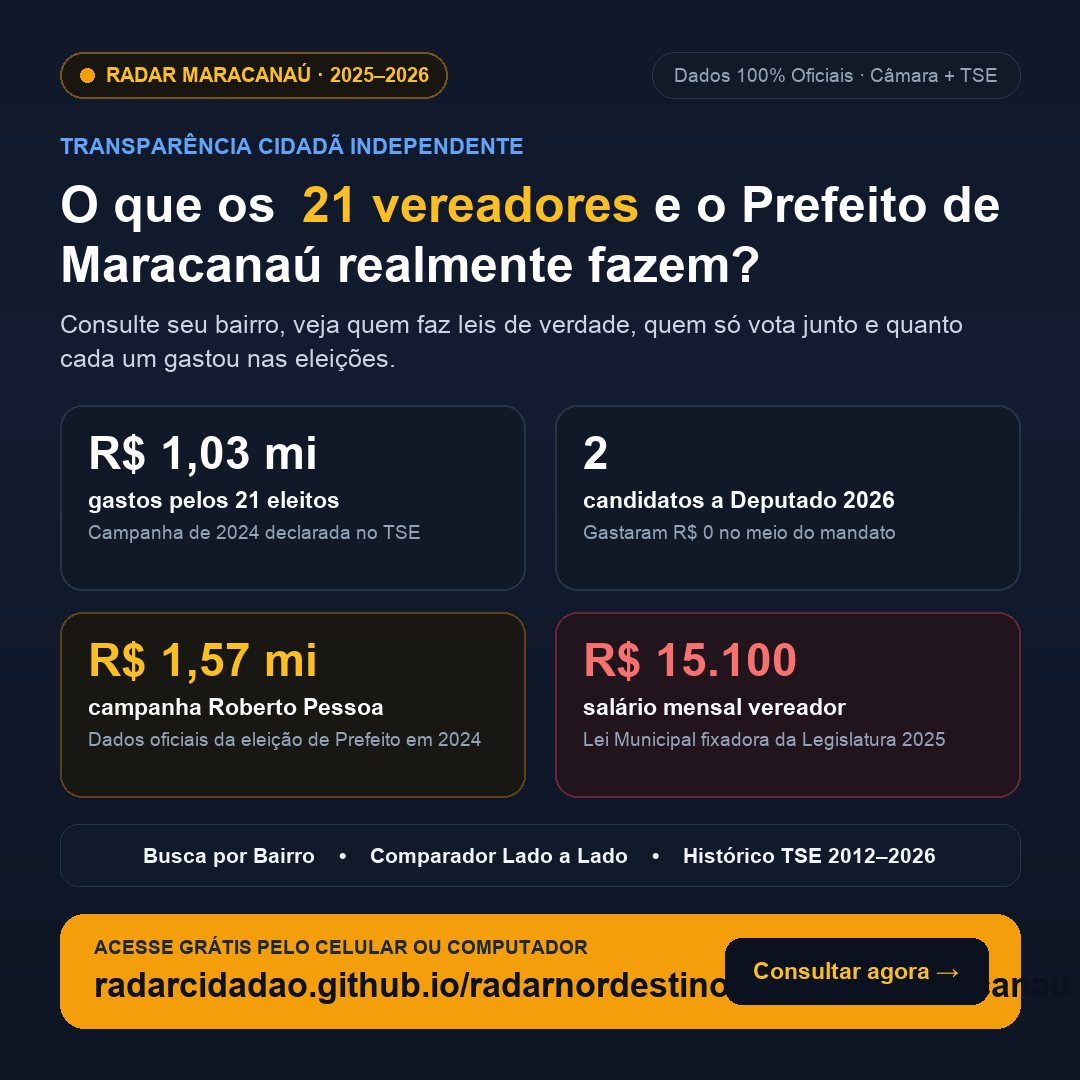
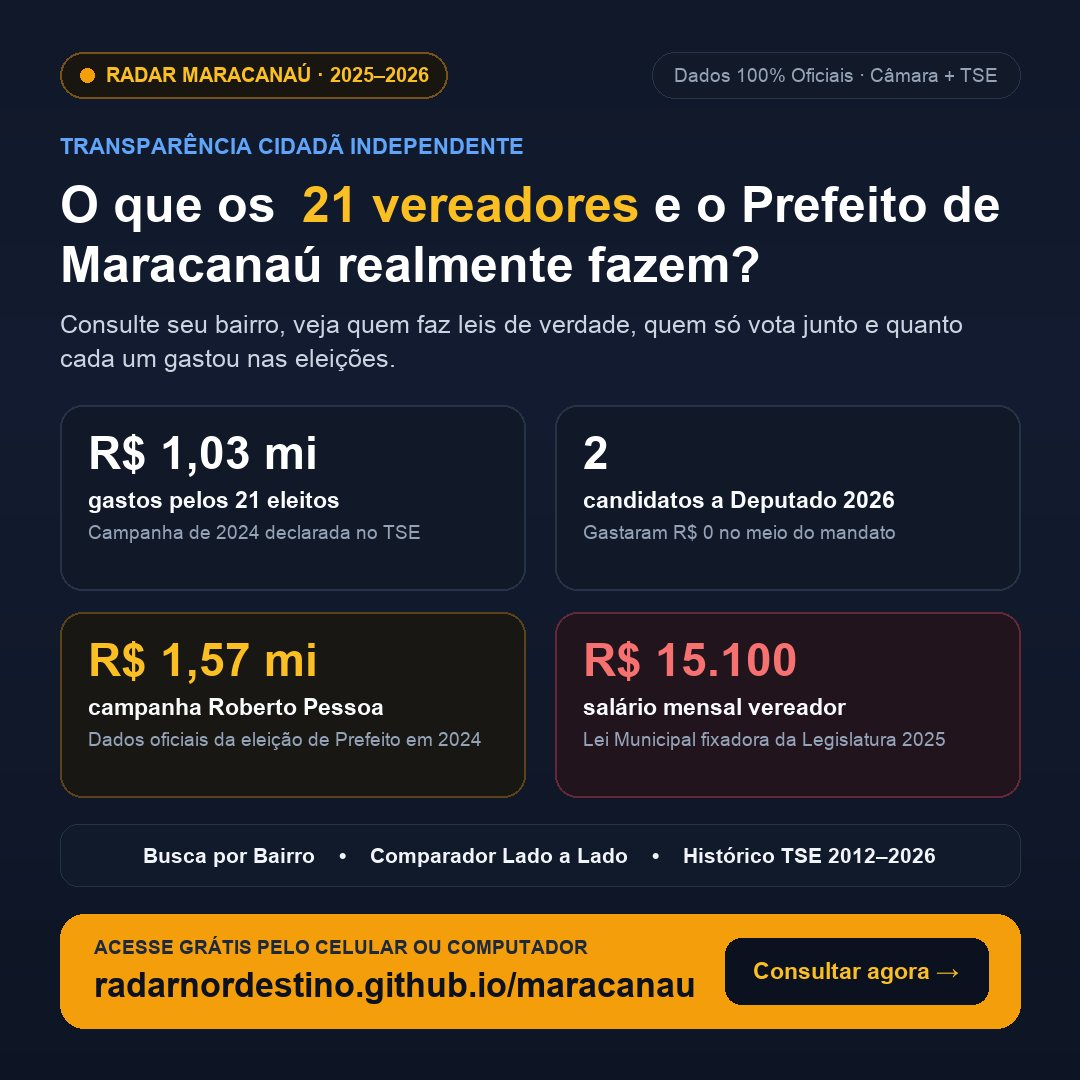
chore: definir URL base para https://radarnordestino.github.io

Changed region(s): [[0.1528, 0.8861, 0.6722, 0.9472], [0.9167, 0.8861, 0.9472, 0.9472]]

diff --git a/santoantoniodejesus/index.html b/santoantoniodejesus/index.html
@@ -6,14 +6,14 @@
 <title>Radar Santo Antônio de Jesus — O que os 14 vereadores e o Prefeito realmente fazem</title>
 <meta name="description" content="Consulte seu bairro em Santo Antônio de Jesus, veja quem faz leis de verdade, quem só vota junto e quanto cada vereador gastou nas eleições (dados oficiais Câmara + TSE).">
 <meta property="og:type" content="website">
-<meta property="og:url" content="https://radarcidadao.github.io/radarnordestino.github.io/santoantoniodejesus/">
+<meta property="og:url" content="https://radarnordestino.github.io/santoantoniodejesus/">
 <meta property="og:title" content="Radar Santo Antônio de Jesus — O que os 14 vereadores e o Prefeito fazem?">
 <meta property="og:description" content="Raio-X dos 14 vereadores e do Prefeito de Santo Antônio de Jesus: salários em tempo real, gastos de campanha (R$ 236,2 mil em 2024 no TSE) e canais oficiais de cobrança.">
-<meta property="og:image" content="https://radarcidadao.github.io/radarnordestino.github.io/santoantoniodejesus/card-whatsapp.jpg">
+<meta property="og:image" content="https://radarnordestino.github.io/santoantoniodejesus/card-whatsapp.jpg">
 <meta property="og:image:width" content="1080">
 <meta property="og:image:height" content="1080">
 <meta name="twitter:card" content="summary_large_image">
-<meta name="twitter:image" content="https://radarcidadao.github.io/radarnordestino.github.io/santoantoniodejesus/card-whatsapp.jpg">
+<meta name="twitter:image" content="https://radarnordestino.github.io/santoantoniodejesus/card-whatsapp.jpg">
 <link rel="icon" href="../favicon.ico" sizes="any">
 <link rel="icon" type="image/png" href="../favicon.png">
 <link rel="apple-touch-icon" href="../apple-touch-icon.png">
@@ -842,7 +842,7 @@ const repHTML=g=>`<button class="rp" type="button" data-g="${D.rep.indexOf(g)}">
   <span class="rr">${esc(g.r)}</span><span class="rb">${esc(g.b||CIDADE)}</span>
   <span class="rm"><span class="lab">${esc(THX[g.th]?THX[g.th][1]:'Melhoria')}</span><span>${g.a} ${g.a===1?'vereador pediu':'vereadores pediram'}</span><span>·</span><span>de ${mesAno(g.d0)} a ${mesAno(g.d1)}</span></span><span class="go" style="grid-column:1/-1;color:var(--red);font-weight:700;font-size:14px;margin-top:6px">Ver pedidos e cobrar →</span></button>`;
 const TEMA={luz:'iluminação',asf:'conserto de asfalto',tra:'melhoria no trânsito',agu:'conserto de água e esgoto',lim:'limpeza e poda',cal:'conserto de calçada',laz:'melhoria em praça e área de lazer',sau:'melhoria na saúde',edu:'melhoria em escola',seg:'segurança',bus:'melhoria no ônibus'};
-const SITE=/^https?:/.test(location.protocol)?location.origin+location.pathname:'https://radarcidadao.github.io/radarnordestino.github.io/santoantoniodejesus/';
+const SITE=/^https?:/.test(location.protocol)?location.origin+location.pathname:'https://radarnordestino.github.io/santoantoniodejesus/';
 function openRep(g){
   openSheet('b',THX[g.th]?THX[g.th][2]:'pin',g.r,`${THX[g.th]?THX[g.th][1]:'Melhoria'} · pedido ${g.n} vezes até agora${g.b?' · '+g.b:''}`);
   const cnt=new Map(); g.items.forEach(it=>it[6].forEach(a=>cnt.set(a,(cnt.get(a)||0)+1)));

diff --git a/cruzdasalmas/index.html b/cruzdasalmas/index.html
@@ -6,14 +6,14 @@
 <title>Radar Cruz das Almas — O que os 15 vereadores e o Prefeito realmente fazem</title>
 <meta name="description" content="Consulte seu bairro em Cruz das Almas, veja quem faz leis de verdade, quem só vota junto e quanto cada vereador gastou nas eleições (dados oficiais Câmara + TSE).">
 <meta property="og:type" content="website">
-<meta property="og:url" content="https://radarcidadao.github.io/radarnordestino.github.io/cruzdasalmas/">
+<meta property="og:url" content="https://radarnordestino.github.io/cruzdasalmas/">
 <meta property="og:title" content="Radar Cruz das Almas — O que os 15 vereadores e o Prefeito fazem?">
 <meta property="og:description" content="Raio-X dos 15 vereadores e do Prefeito de Cruz das Almas: salários em tempo real, gastos de campanha (R$ 411,3 mil em 2024 no TSE) e canais oficiais de cobrança.">
-<meta property="og:image" content="https://radarcidadao.github.io/radarnordestino.github.io/cruzdasalmas/card-whatsapp.jpg">
+<meta property="og:image" content="https://radarnordestino.github.io/cruzdasalmas/card-whatsapp.jpg">
 <meta property="og:image:width" content="1080">
 <meta property="og:image:height" content="1080">
 <meta name="twitter:card" content="summary_large_image">
-<meta name="twitter:image" content="https://radarcidadao.github.io/radarnordestino.github.io/cruzdasalmas/card-whatsapp.jpg">
+<meta name="twitter:image" content="https://radarnordestino.github.io/cruzdasalmas/card-whatsapp.jpg">
 <link rel="icon" href="../favicon.ico" sizes="any">
 <link rel="icon" type="image/png" href="../favicon.png">
 <link rel="apple-touch-icon" href="../apple-touch-icon.png">
@@ -842,7 +842,7 @@ const repHTML=g=>`<button class="rp" type="button" data-g="${D.rep.indexOf(g)}">
   <span class="rr">${esc(g.r)}</span><span class="rb">${esc(g.b||CIDADE)}</span>
   <span class="rm"><span class="lab">${esc(THX[g.th]?THX[g.th][1]:'Melhoria')}</span><span>${g.a} ${g.a===1?'vereador pediu':'vereadores pediram'}</span><span>·</span><span>de ${mesAno(g.d0)} a ${mesAno(g.d1)}</span></span><span class="go" style="grid-column:1/-1;color:var(--red);font-weight:700;font-size:14px;margin-top:6px">Ver pedidos e cobrar →</span></button>`;
 const TEMA={luz:'iluminação',asf:'conserto de asfalto',tra:'melhoria no trânsito',agu:'conserto de água e esgoto',lim:'limpeza e poda',cal:'conserto de calçada',laz:'melhoria em praça e área de lazer',sau:'melhoria na saúde',edu:'melhoria em escola',seg:'segurança',bus:'melhoria no ônibus'};
-const SITE=/^https?:/.test(location.protocol)?location.origin+location.pathname:'https://radarcidadao.github.io/radarnordestino.github.io/cruzdasalmas/';
+const SITE=/^https?:/.test(location.protocol)?location.origin+location.pathname:'https://radarnordestino.github.io/cruzdasalmas/';
 function openRep(g){
   openSheet('b',THX[g.th]?THX[g.th][2]:'pin',g.r,`${THX[g.th]?THX[g.th][1]:'Melhoria'} · pedido ${g.n} vezes até agora${g.b?' · '+g.b:''}`);
   const cnt=new Map(); g.items.forEach(it=>it[6].forEach(a=>cnt.set(a,(cnt.get(a)||0)+1)));

diff --git a/campinagrande/index.html b/campinagrande/index.html
@@ -6,14 +6,14 @@
 <title>Radar Campina Grande — O que os 23 vereadores e o Prefeito realmente fazem</title>
 <meta name="description" content="Consulte seu bairro em Campina Grande, veja quem faz leis de verdade, quem só vota junto e quanto cada vereador gastou nas eleições (dados oficiais Câmara + TSE).">
 <meta property="og:type" content="website">
-<meta property="og:url" content="https://radarcidadao.github.io/radarnordestino.github.io/campinagrande/">
+<meta property="og:url" content="https://radarnordestino.github.io/campinagrande/">
 <meta property="og:title" content="Radar Campina Grande — O que os 23 vereadores e o Prefeito fazem?">
 <meta property="og:description" content="6.016 ações em 30 bairros, gastos de campanha (R$ 1,94 mi em 2024 + R$ 2,37 mi dos 5 candidatos a deputado em 2026) e comparador lado a lado.">
-<meta property="og:image" content="https://radarcidadao.github.io/radarnordestino.github.io/campinagrande/card-whatsapp.jpg">
+<meta property="og:image" content="https://radarnordestino.github.io/campinagrande/card-whatsapp.jpg">
 <meta property="og:image:width" content="1080">
 <meta property="og:image:height" content="1080">
 <meta name="twitter:card" content="summary_large_image">
-<meta name="twitter:image" content="https://radarcidadao.github.io/radarnordestino.github.io/campinagrande/card-whatsapp.jpg">
+<meta name="twitter:image" content="https://radarnordestino.github.io/campinagrande/card-whatsapp.jpg">
 <link rel="icon" href="../favicon.ico" sizes="any">
 <link rel="icon" type="image/png" href="../favicon.png">
 <link rel="apple-touch-icon" href="../apple-touch-icon.png">
@@ -842,7 +842,7 @@ const repHTML=g=>`<button class="rp" type="button" data-g="${D.rep.indexOf(g)}">
   <span class="rr">${esc(g.r)}</span><span class="rb">${esc(g.b||CIDADE)}</span>
   <span class="rm"><span class="lab">${esc(THX[g.th]?THX[g.th][1]:'Melhoria')}</span><span>${g.a} ${g.a===1?'vereador pediu':'vereadores pediram'}</span><span>·</span><span>de ${mesAno(g.d0)} a ${mesAno(g.d1)}</span></span><span class="go" style="grid-column:1/-1;color:var(--red);font-weight:700;font-size:14px;margin-top:6px">Ver pedidos e cobrar →</span></button>`;
 const TEMA={luz:'iluminação',asf:'conserto de asfalto',tra:'melhoria no trânsito',agu:'conserto de água e esgoto',lim:'limpeza e poda',cal:'conserto de calçada',laz:'melhoria em praça e área de lazer',sau:'melhoria na saúde',edu:'melhoria em escola',seg:'segurança',bus:'melhoria no ônibus'};
-const SITE=/^https?:/.test(location.protocol)?location.origin+location.pathname:'https://radarcidadao.github.io/radarnordestino.github.io/campinagrande/';
+const SITE=/^https?:/.test(location.protocol)?location.origin+location.pathname:'https://radarnordestino.github.io/campinagrande/';
 function openRep(g){
   openSheet('b',THX[g.th]?THX[g.th][2]:'pin',g.r,`${THX[g.th]?THX[g.th][1]:'Melhoria'} · pedido ${g.n} vezes até agora${g.b?' · '+g.b:''}`);
   const cnt=new Map(); g.items.forEach(it=>it[6].forEach(a=>cnt.set(a,(cnt.get(a)||0)+1)));

diff --git a/maracanau/index.html b/maracanau/index.html
@@ -6,14 +6,14 @@
 <title>Radar Maracanaú — O que os 21 vereadores e o Prefeito realmente fazem</title>
 <meta name="description" content="Consulte seu bairro em Maracanaú, veja quem faz leis de verdade, quem só vota junto e quanto cada vereador gastou nas eleições (dados oficiais Câmara + TSE).">
 <meta property="og:type" content="website">
-<meta property="og:url" content="https://radarcidadao.github.io/radarnordestino.github.io/maracanau/">
+<meta property="og:url" content="https://radarnordestino.github.io/maracanau/">
 <meta property="og:title" content="Radar Maracanaú — O que os 21 vereadores e o Prefeito fazem?">
 <meta property="og:description" content="Raio-X dos 21 vereadores e do Prefeito de Maracanaú: salários em tempo real, gastos de campanha (R$ 1,03 mi em 2024 no TSE) e canais oficiais de cobrança.">
-<meta property="og:image" content="https://radarcidadao.github.io/radarnordestino.github.io/maracanau/card-whatsapp.jpg">
+<meta property="og:image" content="https://radarnordestino.github.io/maracanau/card-whatsapp.jpg">
 <meta property="og:image:width" content="1080">
 <meta property="og:image:height" content="1080">
 <meta name="twitter:card" content="summary_large_image">
-<meta name="twitter:image" content="https://radarcidadao.github.io/radarnordestino.github.io/maracanau/card-whatsapp.jpg">
+<meta name="twitter:image" content="https://radarnordestino.github.io/maracanau/card-whatsapp.jpg">
 <link rel="icon" href="../favicon.ico" sizes="any">
 <link rel="icon" type="image/png" href="../favicon.png">
 <link rel="apple-touch-icon" href="../apple-touch-icon.png">
@@ -842,7 +842,7 @@ const repHTML=g=>`<button class="rp" type="button" data-g="${D.rep.indexOf(g)}">
   <span class="rr">${esc(g.r)}</span><span class="rb">${esc(g.b||CIDADE)}</span>
   <span class="rm"><span class="lab">${esc(THX[g.th]?THX[g.th][1]:'Melhoria')}</span><span>${g.a} ${g.a===1?'vereador pediu':'vereadores pediram'}</span><span>·</span><span>de ${mesAno(g.d0)} a ${mesAno(g.d1)}</span></span><span class="go" style="grid-column:1/-1;color:var(--red);font-weight:700;font-size:14px;margin-top:6px">Ver pedidos e cobrar →</span></button>`;
 const TEMA={luz:'iluminação',asf:'conserto de asfalto',tra:'melhoria no trânsito',agu:'conserto de água e esgoto',lim:'limpeza e poda',cal:'conserto de calçada',laz:'melhoria em praça e área de lazer',sau:'melhoria na saúde',edu:'melhoria em escola',seg:'segurança',bus:'melhoria no ônibus'};
-const SITE=/^https?:/.test(location.protocol)?location.origin+location.pathname:'https://radarcidadao.github.io/radarnordestino.github.io/maracanau/';
+const SITE=/^https?:/.test(location.protocol)?location.origin+location.pathname:'https://radarnordestino.github.io/maracanau/';
 function openRep(g){
   openSheet('b',THX[g.th]?THX[g.th][2]:'pin',g.r,`${THX[g.th]?THX[g.th][1]:'Melhoria'} · pedido ${g.n} vezes até agora${g.b?' · '+g.b:''}`);
   const cnt=new Map(); g.items.forEach(it=>it[6].forEach(a=>cnt.set(a,(cnt.get(a)||0)+1)));

diff --git a/petrolina/index.html b/petrolina/index.html
@@ -6,14 +6,14 @@
 <title>Radar Petrolina — O que os 23 vereadores e o Prefeito realmente fazem</title>
 <meta name="description" content="Consulte seu bairro em Petrolina, veja quem faz leis de verdade, quem só vota junto e quanto cada vereador gastou nas eleições (dados oficiais Câmara + TSE).">
 <meta property="og:type" content="website">
-<meta property="og:url" content="https://radarcidadao.github.io/radarnordestino.github.io/petrolina/">
+<meta property="og:url" content="https://radarnordestino.github.io/petrolina/">
 <meta property="og:title" content="Radar Petrolina — O que os 23 vereadores e o Prefeito fazem?">
 <meta property="og:description" content="Raio-X dos 23 vereadores e do Prefeito de Petrolina: salários em tempo real, gastos de campanha (R$ 772,1 mil em 2024 no TSE) e canais oficiais de cobrança.">
-<meta property="og:image" content="https://radarcidadao.github.io/radarnordestino.github.io/petrolina/card-whatsapp.jpg">
+<meta property="og:image" content="https://radarnordestino.github.io/petrolina/card-whatsapp.jpg">
 <meta property="og:image:width" content="1080">
 <meta property="og:image:height" content="1080">
 <meta name="twitter:card" content="summary_large_image">
-<meta name="twitter:image" content="https://radarcidadao.github.io/radarnordestino.github.io/petrolina/card-whatsapp.jpg">
+<meta name="twitter:image" content="https://radarnordestino.github.io/petrolina/card-whatsapp.jpg">
 <link rel="icon" href="../favicon.ico" sizes="any">
 <link rel="icon" type="image/png" href="../favicon.png">
 <link rel="apple-touch-icon" href="../apple-touch-icon.png">
@@ -842,7 +842,7 @@ const repHTML=g=>`<button class="rp" type="button" data-g="${D.rep.indexOf(g)}">
   <span class="rr">${esc(g.r)}</span><span class="rb">${esc(g.b||CIDADE)}</span>
   <span class="rm"><span class="lab">${esc(THX[g.th]?THX[g.th][1]:'Melhoria')}</span><span>${g.a} ${g.a===1?'vereador pediu':'vereadores pediram'}</span><span>·</span><span>de ${mesAno(g.d0)} a ${mesAno(g.d1)}</span></span><span class="go" style="grid-column:1/-1;color:var(--red);font-weight:700;font-size:14px;margin-top:6px">Ver pedidos e cobrar →</span></button>`;
 const TEMA={luz:'iluminação',asf:'conserto de asfalto',tra:'melhoria no trânsito',agu:'conserto de água e esgoto',lim:'limpeza e poda',cal:'conserto de calçada',laz:'melhoria em praça e área de lazer',sau:'melhoria na saúde',edu:'melhoria em escola',seg:'segurança',bus:'melhoria no ônibus'};
-const SITE=/^https?:/.test(location.protocol)?location.origin+location.pathname:'https://radarcidadao.github.io/radarnordestino.github.io/petrolina/';
+const SITE=/^https?:/.test(location.protocol)?location.origin+location.pathname:'https://radarnordestino.github.io/petrolina/';
 function openRep(g){
   openSheet('b',THX[g.th]?THX[g.th][2]:'pin',g.r,`${THX[g.th]?THX[g.th][1]:'Melhoria'} · pedido ${g.n} vezes até agora${g.b?' · '+g.b:''}`);
   const cnt=new Map(); g.items.forEach(it=>it[6].forEach(a=>cnt.set(a,(cnt.get(a)||0)+1)));

diff --git a/salvador/index.html b/salvador/index.html
@@ -6,14 +6,14 @@
 <title>Radar Salvador — O que os 43 vereadores e o Prefeito realmente fazem</title>
 <meta name="description" content="Consulte seu bairro em Salvador, veja quem faz leis de verdade, quem só vota junto e quanto cada vereador gastou nas eleições (dados oficiais Câmara + TSE).">
 <meta property="og:type" content="website">
-<meta property="og:url" content="https://radarcidadao.github.io/radarnordestino.github.io/salvador/">
+<meta property="og:url" content="https://radarnordestino.github.io/salvador/">
 <meta property="og:title" content="Radar Salvador — O que os 43 vereadores e o Prefeito fazem?">
 <meta property="og:description" content="Raio-X dos 43 vereadores e do Prefeito de Salvador: salários em tempo real, gastos de campanha (R$ 13,67 mi em 2024 no TSE) e canais oficiais de cobrança.">
-<meta property="og:image" content="https://radarcidadao.github.io/radarnordestino.github.io/salvador/card-whatsapp.jpg">
+<meta property="og:image" content="https://radarnordestino.github.io/salvador/card-whatsapp.jpg">
 <meta property="og:image:width" content="1080">
 <meta property="og:image:height" content="1080">
 <meta name="twitter:card" content="summary_large_image">
-<meta name="twitter:image" content="https://radarcidadao.github.io/radarnordestino.github.io/salvador/card-whatsapp.jpg">
+<meta name="twitter:image" content="https://radarnordestino.github.io/salvador/card-whatsapp.jpg">
 <link rel="icon" href="../favicon.ico" sizes="any">
 <link rel="icon" type="image/png" href="../favicon.png">
 <link rel="apple-touch-icon" href="../apple-touch-icon.png">
@@ -842,7 +842,7 @@ const repHTML=g=>`<button class="rp" type="button" data-g="${D.rep.indexOf(g)}">
   <span class="rr">${esc(g.r)}</span><span class="rb">${esc(g.b||CIDADE)}</span>
   <span class="rm"><span class="lab">${esc(THX[g.th]?THX[g.th][1]:'Melhoria')}</span><span>${g.a} ${g.a===1?'vereador pediu':'vereadores pediram'}</span><span>·</span><span>de ${mesAno(g.d0)} a ${mesAno(g.d1)}</span></span><span class="go" style="grid-column:1/-1;color:var(--red);font-weight:700;font-size:14px;margin-top:6px">Ver pedidos e cobrar →</span></button>`;
 const TEMA={luz:'iluminação',asf:'conserto de asfalto',tra:'melhoria no trânsito',agu:'conserto de água e esgoto',lim:'limpeza e poda',cal:'conserto de calçada',laz:'melhoria em praça e área de lazer',sau:'melhoria na saúde',edu:'melhoria em escola',seg:'segurança',bus:'melhoria no ônibus'};
-const SITE=/^https?:/.test(location.protocol)?location.origin+location.pathname:'https://radarcidadao.github.io/radarnordestino.github.io/salvador/';
+const SITE=/^https?:/.test(location.protocol)?location.origin+location.pathname:'https://radarnordestino.github.io/salvador/';
 function openRep(g){
   openSheet('b',THX[g.th]?THX[g.th][2]:'pin',g.r,`${THX[g.th]?THX[g.th][1]:'Melhoria'} · pedido ${g.n} vezes até agora${g.b?' · '+g.b:''}`);
   const cnt=new Map(); g.items.forEach(it=>it[6].forEach(a=>cnt.set(a,(cnt.get(a)||0)+1)));

diff --git a/saoluis/index.html b/saoluis/index.html
@@ -6,14 +6,14 @@
 <title>Radar São Luís — O que os 31 vereadores e o Prefeito realmente fazem</title>
 <meta name="description" content="Consulte seu bairro em São Luís, veja quem faz leis de verdade, quem só vota junto e quanto cada vereador gastou nas eleições (dados oficiais Câmara + TSE).">
 <meta property="og:type" content="website">
-<meta property="og:url" content="https://radarcidadao.github.io/radarnordestino.github.io/saoluis/">
+<meta property="og:url" content="https://radarnordestino.github.io/saoluis/">
 <meta property="og:title" content="Radar São Luís — O que os 31 vereadores e o Prefeito fazem?">
 <meta property="og:description" content="Raio-X dos 31 vereadores e do Prefeito de São Luís: salários em tempo real, gastos de campanha (R$ 7,60 mi em 2024 no TSE) e canais oficiais de cobrança.">
-<meta property="og:image" content="https://radarcidadao.github.io/radarnordestino.github.io/saoluis/card-whatsapp.jpg">
+<meta property="og:image" content="https://radarnordestino.github.io/saoluis/card-whatsapp.jpg">
 <meta property="og:image:width" content="1080">
 <meta property="og:image:height" content="1080">
 <meta name="twitter:card" content="summary_large_image">
-<meta name="twitter:image" content="https://radarcidadao.github.io/radarnordestino.github.io/saoluis/card-whatsapp.jpg">
+<meta name="twitter:image" content="https://radarnordestino.github.io/saoluis/card-whatsapp.jpg">
 <link rel="icon" href="../favicon.ico" sizes="any">
 <link rel="icon" type="image/png" href="../favicon.png">
 <link rel="apple-touch-icon" href="../apple-touch-icon.png">
@@ -842,7 +842,7 @@ const repHTML=g=>`<button class="rp" type="button" data-g="${D.rep.indexOf(g)}">
   <span class="rr">${esc(g.r)}</span><span class="rb">${esc(g.b||CIDADE)}</span>
   <span class="rm"><span class="lab">${esc(THX[g.th]?THX[g.th][1]:'Melhoria')}</span><span>${g.a} ${g.a===1?'vereador pediu':'vereadores pediram'}</span><span>·</span><span>de ${mesAno(g.d0)} a ${mesAno(g.d1)}</span></span><span class="go" style="grid-column:1/-1;color:var(--red);font-weight:700;font-size:14px;margin-top:6px">Ver pedidos e cobrar →</span></button>`;
 const TEMA={luz:'iluminação',asf:'conserto de asfalto',tra:'melhoria no trânsito',agu:'conserto de água e esgoto',lim:'limpeza e poda',cal:'conserto de calçada',laz:'melhoria em praça e área de lazer',sau:'melhoria na saúde',edu:'melhoria em escola',seg:'segurança',bus:'melhoria no ônibus'};
-const SITE=/^https?:/.test(location.protocol)?location.origin+location.pathname:'https://radarcidadao.github.io/radarnordestino.github.io/saoluis/';
+const SITE=/^https?:/.test(location.protocol)?location.origin+location.pathname:'https://radarnordestino.github.io/saoluis/';
 function openRep(g){
   openSheet('b',THX[g.th]?THX[g.th][2]:'pin',g.r,`${THX[g.th]?THX[g.th][1]:'Melhoria'} · pedido ${g.n} vezes até agora${g.b?' · '+g.b:''}`);
   const cnt=new Map(); g.items.forEach(it=>it[6].forEach(a=>cnt.set(a,(cnt.get(a)||0)+1)));

diff --git a/mossoro/index.html b/mossoro/index.html
@@ -6,14 +6,14 @@
 <title>Radar Mossoró — O que os 21 vereadores e o Prefeito realmente fazem</title>
 <meta name="description" content="Consulte seu bairro em Mossoró, veja quem faz leis de verdade, quem só vota junto e quanto cada vereador gastou nas eleições (dados oficiais Câmara + TSE).">
 <meta property="og:type" content="website">
-<meta property="og:url" content="https://radarcidadao.github.io/radarnordestino.github.io/mossoro/">
+<meta property="og:url" content="https://radarnordestino.github.io/mossoro/">
 <meta property="og:title" content="Radar Mossoró — O que os 21 vereadores e o Prefeito fazem?">
 <meta property="og:description" content="Raio-X dos 21 vereadores e do Prefeito de Mossoró: salários em tempo real, gastos de campanha (R$ 1,17 mi em 2024 no TSE) e canais oficiais de cobrança.">
-<meta property="og:image" content="https://radarcidadao.github.io/radarnordestino.github.io/mossoro/card-whatsapp.jpg">
+<meta property="og:image" content="https://radarnordestino.github.io/mossoro/card-whatsapp.jpg">
 <meta property="og:image:width" content="1080">
 <meta property="og:image:height" content="1080">
 <meta name="twitter:card" content="summary_large_image">
-<meta name="twitter:image" content="https://radarcidadao.github.io/radarnordestino.github.io/mossoro/card-whatsapp.jpg">
+<meta name="twitter:image" content="https://radarnordestino.github.io/mossoro/card-whatsapp.jpg">
 <link rel="icon" href="../favicon.ico" sizes="any">
 <link rel="icon" type="image/png" href="../favicon.png">
 <link rel="apple-touch-icon" href="../apple-touch-icon.png">
@@ -842,7 +842,7 @@ const repHTML=g=>`<button class="rp" type="button" data-g="${D.rep.indexOf(g)}">
   <span class="rr">${esc(g.r)}</span><span class="rb">${esc(g.b||CIDADE)}</span>
   <span class="rm"><span class="lab">${esc(THX[g.th]?THX[g.th][1]:'Melhoria')}</span><span>${g.a} ${g.a===1?'vereador pediu':'vereadores pediram'}</span><span>·</span><span>de ${mesAno(g.d0)} a ${mesAno(g.d1)}</span></span><span class="go" style="grid-column:1/-1;color:var(--red);font-weight:700;font-size:14px;margin-top:6px">Ver pedidos e cobrar →</span></button>`;
 const TEMA={luz:'iluminação',asf:'conserto de asfalto',tra:'melhoria no trânsito',agu:'conserto de água e esgoto',lim:'limpeza e poda',cal:'conserto de calçada',laz:'melhoria em praça e área de lazer',sau:'melhoria na saúde',edu:'melhoria em escola',seg:'segurança',bus:'melhoria no ônibus'};
-const SITE=/^https?:/.test(location.protocol)?location.origin+location.pathname:'https://radarcidadao.github.io/radarnordestino.github.io/mossoro/';
+const SITE=/^https?:/.test(location.protocol)?location.origin+location.pathname:'https://radarnordestino.github.io/mossoro/';
 function openRep(g){
   openSheet('b',THX[g.th]?THX[g.th][2]:'pin',g.r,`${THX[g.th]?THX[g.th][1]:'Melhoria'} · pedido ${g.n} vezes até agora${g.b?' · '+g.b:''}`);
   const cnt=new Map(); g.items.forEach(it=>it[6].forEach(a=>cnt.set(a,(cnt.get(a)||0)+1)));

diff --git a/aracaju/index.html b/aracaju/index.html
@@ -6,14 +6,14 @@
 <title>Radar Aracaju — O que os 26 vereadores e o Prefeito realmente fazem</title>
 <meta name="description" content="Consulte seu bairro em Aracaju, veja quem faz leis de verdade, quem só vota junto e quanto cada vereador gastou nas eleições (dados oficiais Câmara + TSE).">
 <meta property="og:type" content="website">
-<meta property="og:url" content="https://radarcidadao.github.io/radarnordestino.github.io/aracaju/">
+<meta property="og:url" content="https://radarnordestino.github.io/aracaju/">
 <meta property="og:title" content="Radar Aracaju — O que os 26 vereadores e o Prefeito fazem?">
 <meta property="og:description" content="Raio-X dos 26 vereadores e do Prefeito de Aracaju: salários em tempo real, gastos de campanha (R$ 4,56 mi em 2024 no TSE) e canais oficiais de cobrança.">
-<meta property="og:image" content="https://radarcidadao.github.io/radarnordestino.github.io/aracaju/card-whatsapp.jpg">
+<meta property="og:image" content="https://radarnordestino.github.io/aracaju/card-whatsapp.jpg">
 <meta property="og:image:width" content="1080">
 <meta property="og:image:height" content="1080">
 <meta name="twitter:card" content="summary_large_image">
-<meta name="twitter:image" content="https://radarcidadao.github.io/radarnordestino.github.io/aracaju/card-whatsapp.jpg">
+<meta name="twitter:image" content="https://radarnordestino.github.io/aracaju/card-whatsapp.jpg">
 <link rel="icon" href="../favicon.ico" sizes="any">
 <link rel="icon" type="image/png" href="../favicon.png">
 <link rel="apple-touch-icon" href="../apple-touch-icon.png">
@@ -842,7 +842,7 @@ const repHTML=g=>`<button class="rp" type="button" data-g="${D.rep.indexOf(g)}">
   <span class="rr">${esc(g.r)}</span><span class="rb">${esc(g.b||CIDADE)}</span>
   <span class="rm"><span class="lab">${esc(THX[g.th]?THX[g.th][1]:'Melhoria')}</span><span>${g.a} ${g.a===1?'vereador pediu':'vereadores pediram'}</span><span>·</span><span>de ${mesAno(g.d0)} a ${mesAno(g.d1)}</span></span><span class="go" style="grid-column:1/-1;color:var(--red);font-weight:700;font-size:14px;margin-top:6px">Ver pedidos e cobrar →</span></button>`;
 const TEMA={luz:'iluminação',asf:'conserto de asfalto',tra:'melhoria no trânsito',agu:'conserto de água e esgoto',lim:'limpeza e poda',cal:'conserto de calçada',laz:'melhoria em praça e área de lazer',sau:'melhoria na saúde',edu:'melhoria em escola',seg:'segurança',bus:'melhoria no ônibus'};
-const SITE=/^https?:/.test(location.protocol)?location.origin+location.pathname:'https://radarcidadao.github.io/radarnordestino.github.io/aracaju/';
+const SITE=/^https?:/.test(location.protocol)?location.origin+location.pathname:'https://radarnordestino.github.io/aracaju/';
 function openRep(g){
   openSheet('b',THX[g.th]?THX[g.th][2]:'pin',g.r,`${THX[g.th]?THX[g.th][1]:'Melhoria'} · pedido ${g.n} vezes até agora${g.b?' · '+g.b:''}`);
   const cnt=new Map(); g.items.forEach(it=>it[6].forEach(a=>cnt.set(a,(cnt.get(a)||0)+1)));

diff --git a/maceio/index.html b/maceio/index.html
@@ -6,14 +6,14 @@
 <title>Radar Maceió — O que os 27 vereadores e o Prefeito realmente fazem</title>
 <meta name="description" content="Consulte seu bairro em Maceió, veja quem faz leis de verdade, quem só vota junto e quanto cada vereador gastou nas eleições (dados oficiais Câmara + TSE).">
 <meta property="og:type" content="website">
-<meta property="og:url" content="https://radarcidadao.github.io/radarnordestino.github.io/maceio/">
+<meta property="og:url" content="https://radarnordestino.github.io/maceio/">
 <meta property="og:title" content="Radar Maceió — O que os 27 vereadores e o Prefeito fazem?">
 <meta property="og:description" content="Raio-X dos 27 vereadores e do Prefeito de Maceió: salários em tempo real, gastos de campanha (R$ 6,60 mi em 2024 no TSE) e canais oficiais de cobrança.">
-<meta property="og:image" content="https://radarcidadao.github.io/radarnordestino.github.io/maceio/card-whatsapp.jpg">
+<meta property="og:image" content="https://radarnordestino.github.io/maceio/card-whatsapp.jpg">
 <meta property="og:image:width" content="1080">
 <meta property="og:image:height" content="1080">
 <meta name="twitter:card" content="summary_large_image">
-<meta name="twitter:image" content="https://radarcidadao.github.io/radarnordestino.github.io/maceio/card-whatsapp.jpg">
+<meta name="twitter:image" content="https://radarnordestino.github.io/maceio/card-whatsapp.jpg">
 <link rel="icon" href="../favicon.ico" sizes="any">
 <link rel="icon" type="image/png" href="../favicon.png">
 <link rel="apple-touch-icon" href="../apple-touch-icon.png">
@@ -842,7 +842,7 @@ const repHTML=g=>`<button class="rp" type="button" data-g="${D.rep.indexOf(g)}">
   <span class="rr">${esc(g.r)}</span><span class="rb">${esc(g.b||CIDADE)}</span>
   <span class="rm"><span class="lab">${esc(THX[g.th]?THX[g.th][1]:'Melhoria')}</span><span>${g.a} ${g.a===1?'vereador pediu':'vereadores pediram'}</span><span>·</span><span>de ${mesAno(g.d0)} a ${mesAno(g.d1)}</span></span><span class="go" style="grid-column:1/-1;color:var(--red);font-weight:700;font-size:14px;margin-top:6px">Ver pedidos e cobrar →</span></button>`;
 const TEMA={luz:'iluminação',asf:'conserto de asfalto',tra:'melhoria no trânsito',agu:'conserto de água e esgoto',lim:'limpeza e poda',cal:'conserto de calçada',laz:'melhoria em praça e área de lazer',sau:'melhoria na saúde',edu:'melhoria em escola',seg:'segurança',bus:'melhoria no ônibus'};
-const SITE=/^https?:/.test(location.protocol)?location.origin+location.pathname:'https://radarcidadao.github.io/radarnordestino.github.io/maceio/';
+const SITE=/^https?:/.test(location.protocol)?location.origin+location.pathname:'https://radarnordestino.github.io/maceio/';
 function openRep(g){
   openSheet('b',THX[g.th]?THX[g.th][2]:'pin',g.r,`${THX[g.th]?THX[g.th][1]:'Melhoria'} · pedido ${g.n} vezes até agora${g.b?' · '+g.b:''}`);
   const cnt=new Map(); g.items.forEach(it=>it[6].forEach(a=>cnt.set(a,(cnt.get(a)||0)+1)));

diff --git a/caruaru/index.html b/caruaru/index.html
@@ -6,14 +6,14 @@
 <title>Radar Caruaru — O que os 23 vereadores e o Prefeito realmente fazem</title>
 <meta name="description" content="Consulte seu bairro em Caruaru, veja quem faz leis de verdade, quem só vota junto e quanto cada vereador gastou nas eleições (dados oficiais Câmara + TSE).">
 <meta property="og:type" content="website">
-<meta property="og:url" content="https://radarcidadao.github.io/radarnordestino.github.io/caruaru/">
+<meta property="og:url" content="https://radarnordestino.github.io/caruaru/">
 <meta property="og:title" content="Radar Caruaru — O que os 23 vereadores e o Prefeito fazem?">
 <meta property="og:description" content="6.079 ações em 26 bairros, gastos de campanha (R$ 1,15 mi em 2024 + R$ 2,00 mi dos 4 candidatos a deputado em 2026) e comparador lado a lado.">
-<meta property="og:image" content="https://radarcidadao.github.io/radarnordestino.github.io/caruaru/card-whatsapp.jpg">
+<meta property="og:image" content="https://radarnordestino.github.io/caruaru/card-whatsapp.jpg">
 <meta property="og:image:width" content="1080">
 <meta property="og:image:height" content="1080">
 <meta name="twitter:card" content="summary_large_image">
-<meta name="twitter:image" content="https://radarcidadao.github.io/radarnordestino.github.io/caruaru/card-whatsapp.jpg">
+<meta name="twitter:image" content="https://radarnordestino.github.io/caruaru/card-whatsapp.jpg">
 <link rel="icon" href="../favicon.ico" sizes="any">
 <link rel="icon" type="image/png" href="../favicon.png">
 <link rel="apple-touch-icon" href="../apple-touch-icon.png">
@@ -842,7 +842,7 @@ const repHTML=g=>`<button class="rp" type="button" data-g="${D.rep.indexOf(g)}">
   <span class="rr">${esc(g.r)}</span><span class="rb">${esc(g.b||CIDADE)}</span>
   <span class="rm"><span class="lab">${esc(THX[g.th]?THX[g.th][1]:'Melhoria')}</span><span>${g.a} ${g.a===1?'vereador pediu':'vereadores pediram'}</span><span>·</span><span>de ${mesAno(g.d0)} a ${mesAno(g.d1)}</span></span><span class="go" style="grid-column:1/-1;color:var(--red);font-weight:700;font-size:14px;margin-top:6px">Ver pedidos e cobrar →</span></button>`;
 const TEMA={luz:'iluminação',asf:'conserto de asfalto',tra:'melhoria no trânsito',agu:'conserto de água e esgoto',lim:'limpeza e poda',cal:'conserto de calçada',laz:'melhoria em praça e área de lazer',sau:'melhoria na saúde',edu:'melhoria em escola',seg:'segurança',bus:'melhoria no ônibus'};
-const SITE=/^https?:/.test(location.protocol)?location.origin+location.pathname:'https://radarcidadao.github.io/radarnordestino.github.io/caruaru/';
+const SITE=/^https?:/.test(location.protocol)?location.origin+location.pathname:'https://radarnordestino.github.io/caruaru/';
 function openRep(g){
   openSheet('b',THX[g.th]?THX[g.th][2]:'pin',g.r,`${THX[g.th]?THX[g.th][1]:'Melhoria'} · pedido ${g.n} vezes até agora${g.b?' · '+g.b:''}`);
   const cnt=new Map(); g.items.forEach(it=>it[6].forEach(a=>cnt.set(a,(cnt.get(a)||0)+1)));

diff --git a/irece/index.html b/irece/index.html
@@ -6,14 +6,14 @@
 <title>Radar Irecê — O que os 15 vereadores e o Prefeito realmente fazem</title>
 <meta name="description" content="Consulte seu bairro em Irecê, veja quem faz leis de verdade, quem só vota junto e quanto cada vereador gastou nas eleições (dados oficiais Câmara + TSE).">
 <meta property="og:type" content="website">
-<meta property="og:url" content="https://radarcidadao.github.io/radarnordestino.github.io/irece/">
+<meta property="og:url" content="https://radarnordestino.github.io/irece/">
 <meta property="og:title" content="Radar Irecê — O que os 15 vereadores e o Prefeito fazem?">
 <meta property="og:description" content="Raio-X dos 15 vereadores e do Prefeito de Irecê: salários em tempo real, gastos de campanha (R$ 199,2 mil em 2024 no TSE) e canais oficiais de cobrança.">
-<meta property="og:image" content="https://radarcidadao.github.io/radarnordestino.github.io/irece/card-whatsapp.jpg">
+<meta property="og:image" content="https://radarnordestino.github.io/irece/card-whatsapp.jpg">
 <meta property="og:image:width" content="1080">
 <meta property="og:image:height" content="1080">
 <meta name="twitter:card" content="summary_large_image">
-<meta name="twitter:image" content="https://radarcidadao.github.io/radarnordestino.github.io/irece/card-whatsapp.jpg">
+<meta name="twitter:image" content="https://radarnordestino.github.io/irece/card-whatsapp.jpg">
 <link rel="icon" href="../favicon.ico" sizes="any">
 <link rel="icon" type="image/png" href="../favicon.png">
 <link rel="apple-touch-icon" href="../apple-touch-icon.png">
@@ -842,7 +842,7 @@ const repHTML=g=>`<button class="rp" type="button" data-g="${D.rep.indexOf(g)}">
   <span class="rr">${esc(g.r)}</span><span class="rb">${esc(g.b||CIDADE)}</span>
   <span class="rm"><span class="lab">${esc(THX[g.th]?THX[g.th][1]:'Melhoria')}</span><span>${g.a} ${g.a===1?'vereador pediu':'vereadores pediram'}</span><span>·</span><span>de ${mesAno(g.d0)} a ${mesAno(g.d1)}</span></span><span class="go" style="grid-column:1/-1;color:var(--red);font-weight:700;font-size:14px;margin-top:6px">Ver pedidos e cobrar →</span></button>`;
 const TEMA={luz:'iluminação',asf:'conserto de asfalto',tra:'melhoria no trânsito',agu:'conserto de água e esgoto',lim:'limpeza e poda',cal:'conserto de calçada',laz:'melhoria em praça e área de lazer',sau:'melhoria na saúde',edu:'melhoria em escola',seg:'segurança',bus:'melhoria no ônibus'};
-const SITE=/^https?:/.test(location.protocol)?location.origin+location.pathname:'https://radarcidadao.github.io/radarnordestino.github.io/irece/';
+const SITE=/^https?:/.test(location.protocol)?location.origin+location.pathname:'https://radarnordestino.github.io/irece/';
 function openRep(g){
   openSheet('b',THX[g.th]?THX[g.th][2]:'pin',g.r,`${THX[g.th]?THX[g.th][1]:'Melhoria'} · pedido ${g.n} vezes até agora${g.b?' · '+g.b:''}`);
   const cnt=new Map(); g.items.forEach(it=>it[6].forEach(a=>cnt.set(a,(cnt.get(a)||0)+1)));
